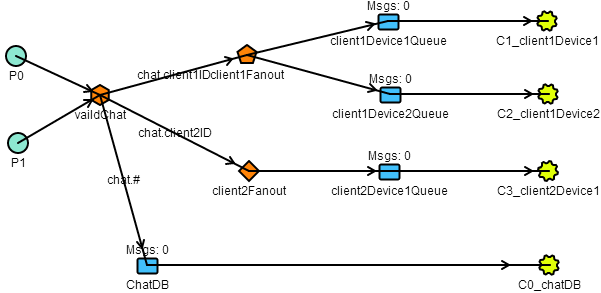
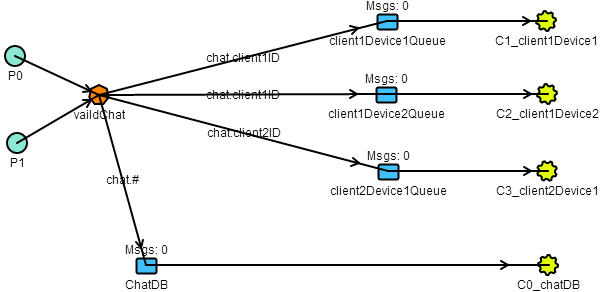
remove fanout exchange

diff --git a/server.rb b/server.rb
@@ -8,16 +8,12 @@ EventMachine.run do
   exVaildChat = channel.topic("vaildChat", :durable => true)
 
   # DB
-  channel.queue("ChatDB").bind(exVaildChat, :routing_key => "chat.#")
-  
+  channel.queue("chatDB").bind(exVaildChat, :routing_key => "chat.#")
+
   # client1
-  exClient1Fanout = channel.fanout("client1Fanout")
-  exClient1Fanout.bind(exVaildChat, :routing_key => "chat.client1ID")
-  channel.queue("client1Device1Queue").bind(exClient1Fanout)
-  channel.queue("client1Device2Queue").bind(exClient1Fanout)
+  channel.queue("client1Device1Queue").bind(exVaildChat, :routing_key => "chat.client1ID")
+  channel.queue("client1Device2Queue").bind(exVaildChat, :routing_key => "chat.client1ID")
 
   # client2
-  exClient2Fanout = channel.fanout("client2Fanout")
-  exClient2Fanout.bind(exVaildChat, :routing_key => "chat.client2ID")
-  channel.queue("client2Device1Queue").bind(exClient2Fanout)
+  channel.queue("client2Device1Queue").bind(exVaildChat, :routing_key => "chat.client1ID")
 end

diff --git a/C0_DB.rb b/C0_DB.rb
@@ -5,7 +5,7 @@ EventMachine.run do
   channel    = AMQP::Channel.new(connection)
 
   # DB
-  queue = channel.queue("ChatDB")
+  queue = channel.queue("chatDB")
   queue.subscribe do |header, body|
     puts " [x] #{header.routing_key}:#{body}"
   end
